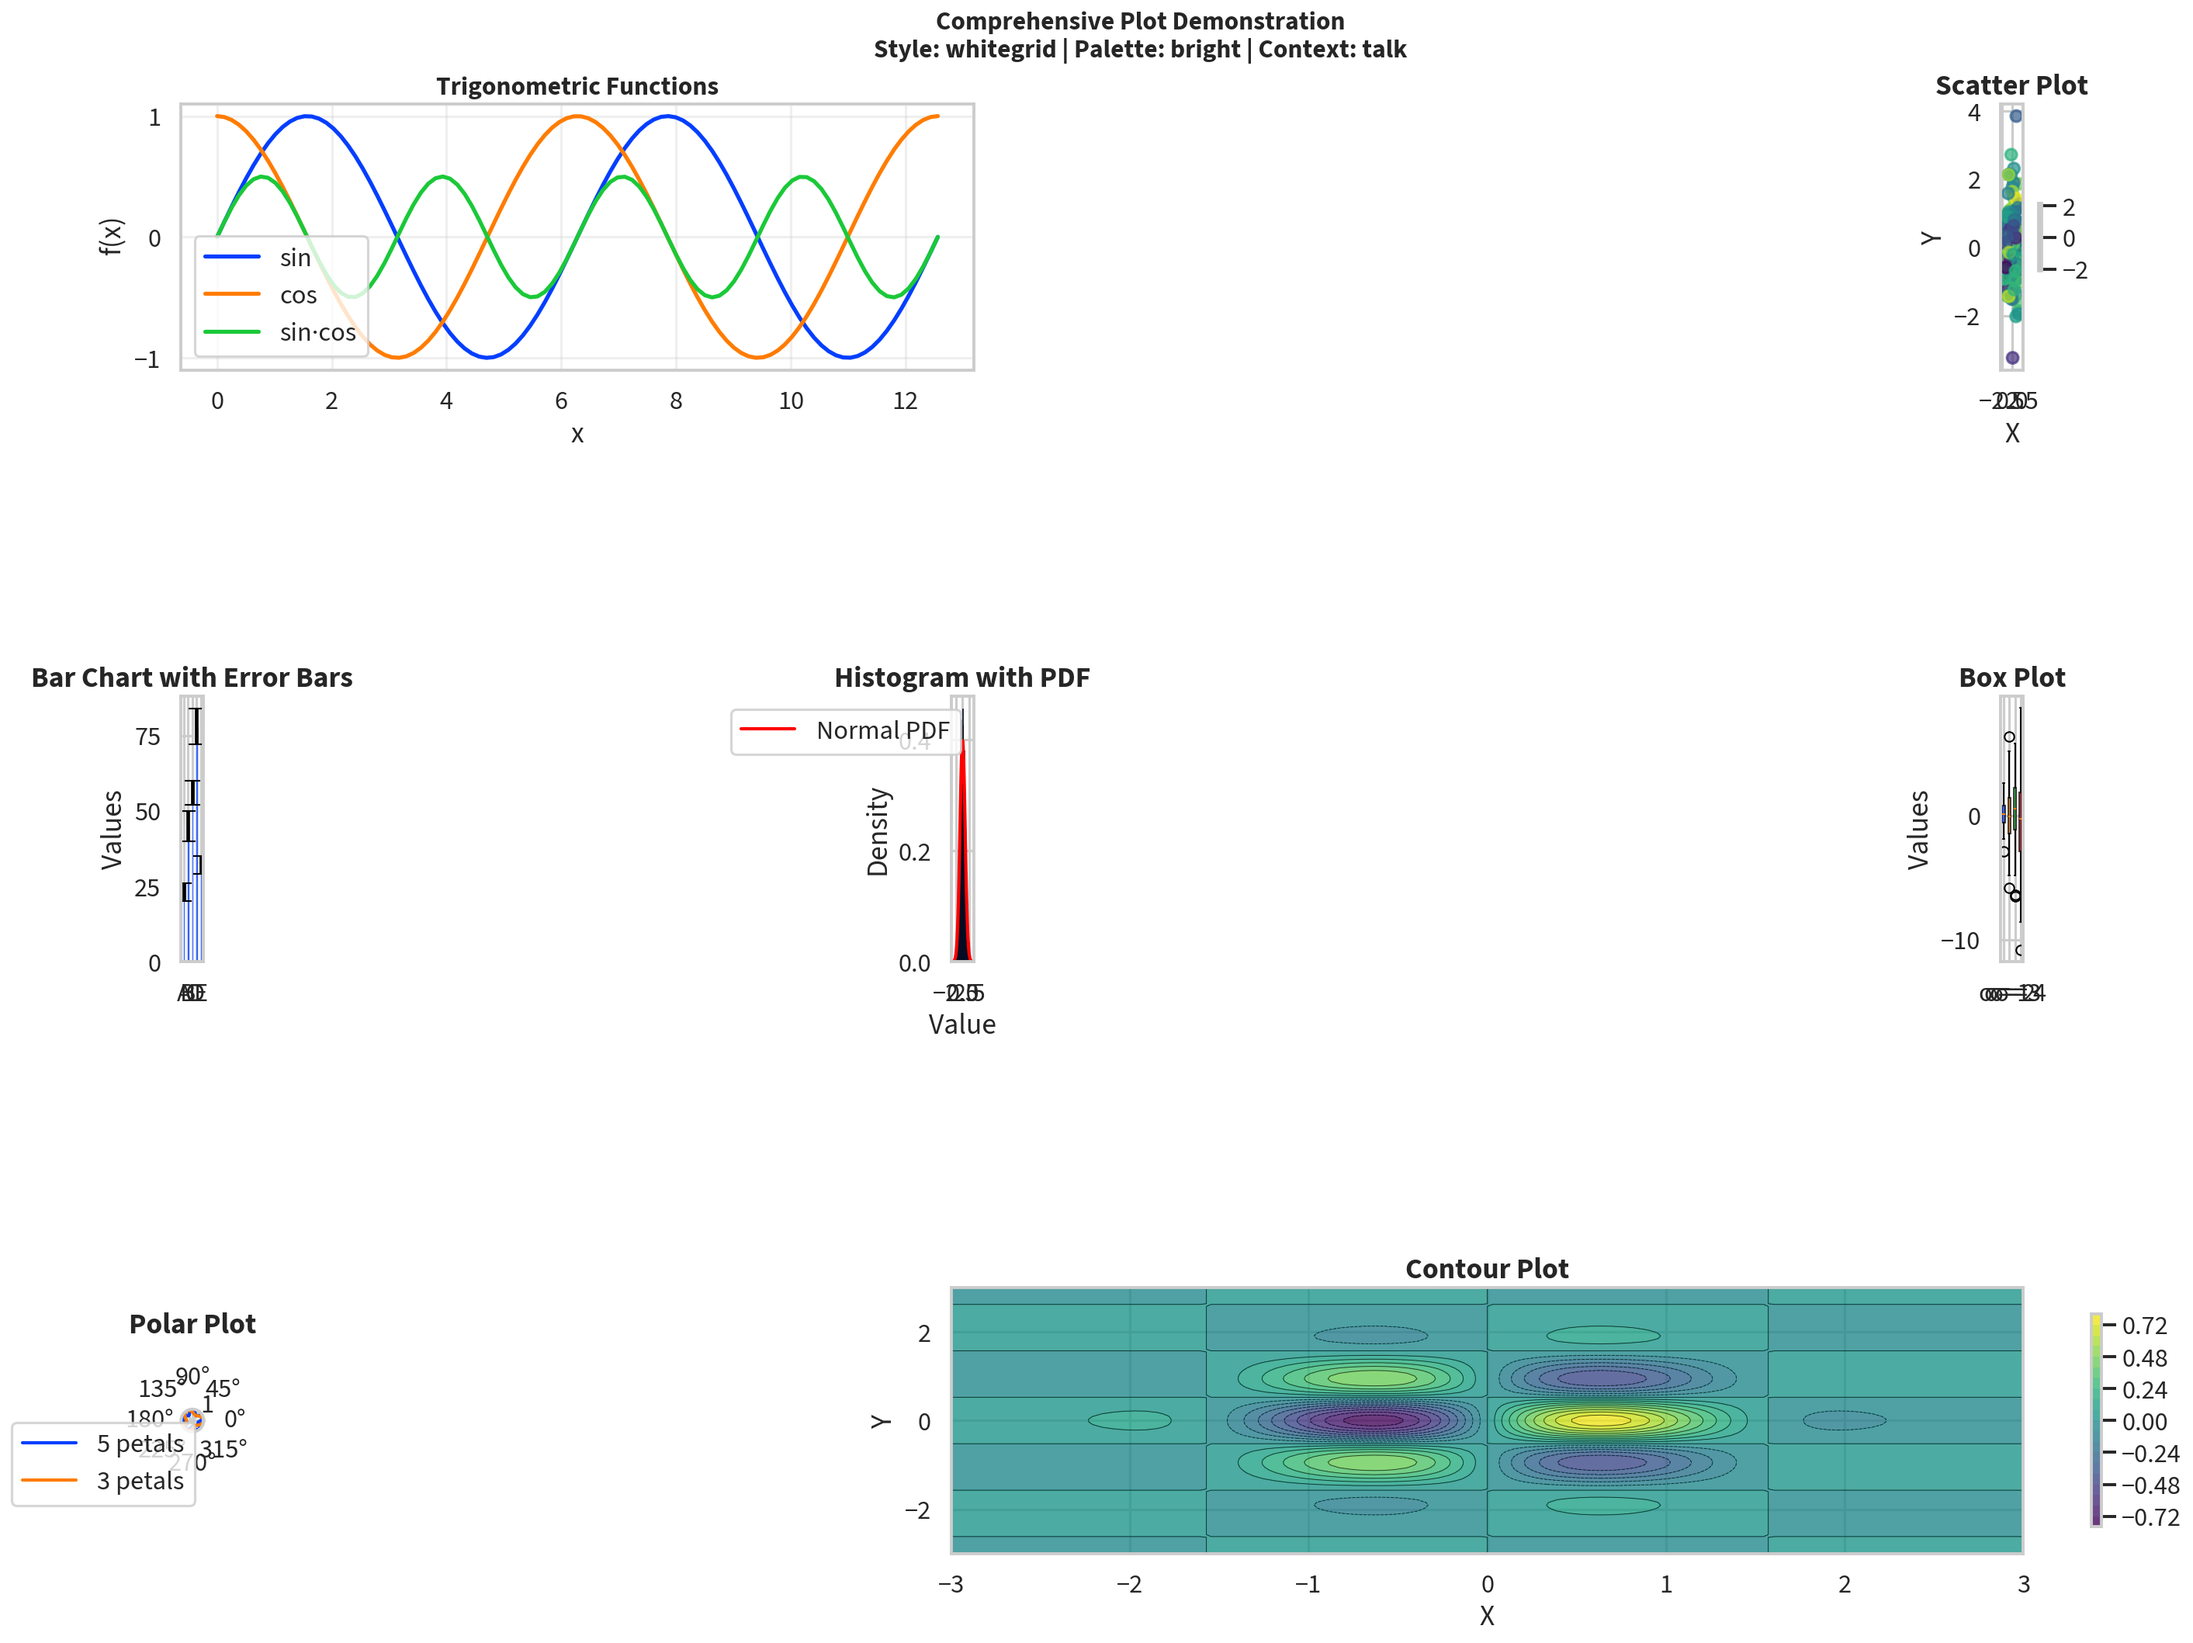
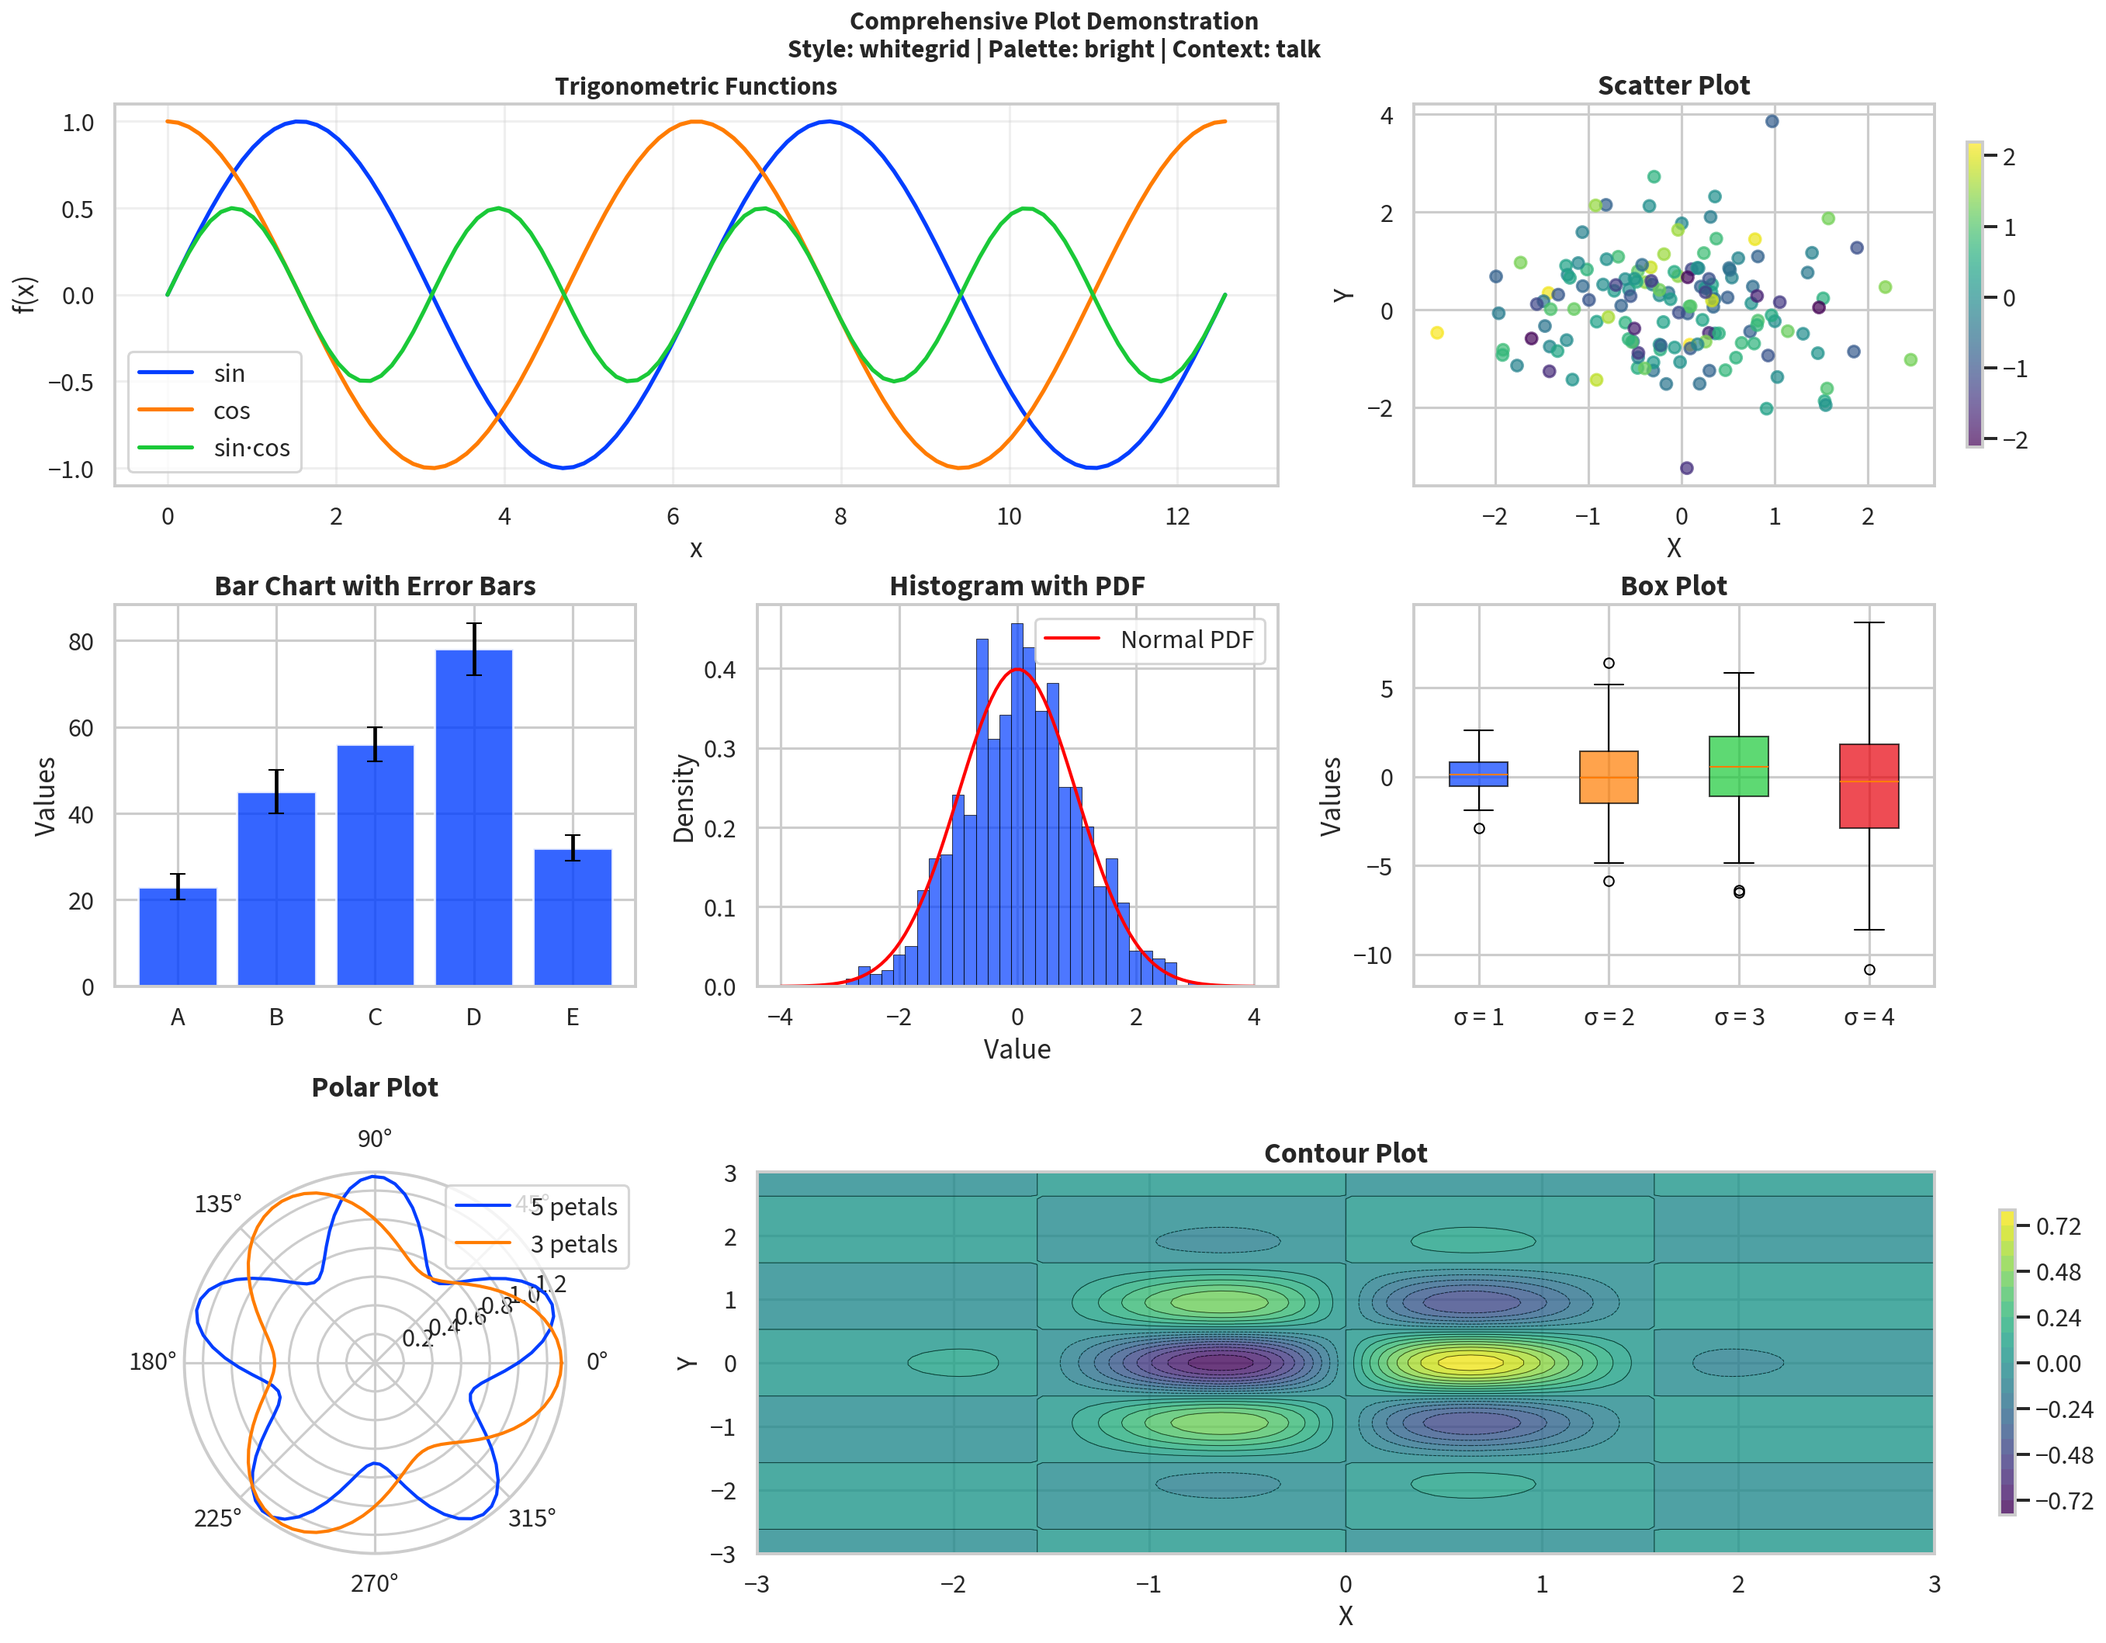
Fix comprehensive_demo panel sizes by removing gridspec spacing conflicts
- Remove hspace/wspace parameters from gridspec when using constrained_layout
- constrained_layout automatically handles spacing, manual spacing parameters cause conflicts
- Panels now display with proper proportions

🤖 Generated with [Claude Code](https://claude.ai/code)

diff --git a/examples/comprehensive_demo.py b/examples/comprehensive_demo.py
@@ -32,8 +32,8 @@ def create_advanced_subplot_demo():
     
     fig = plt.figure(figsize=(18, 14), constrained_layout=True)
     
-    # Create a complex subplot layout with better spacing
-    gs = fig.add_gridspec(3, 3, hspace=0.4, wspace=0.4)
+    # Create a complex subplot layout
+    gs = fig.add_gridspec(3, 3)
     
     # 1. Line plot with multiple series
     ax1 = fig.add_subplot(gs[0, :2])
